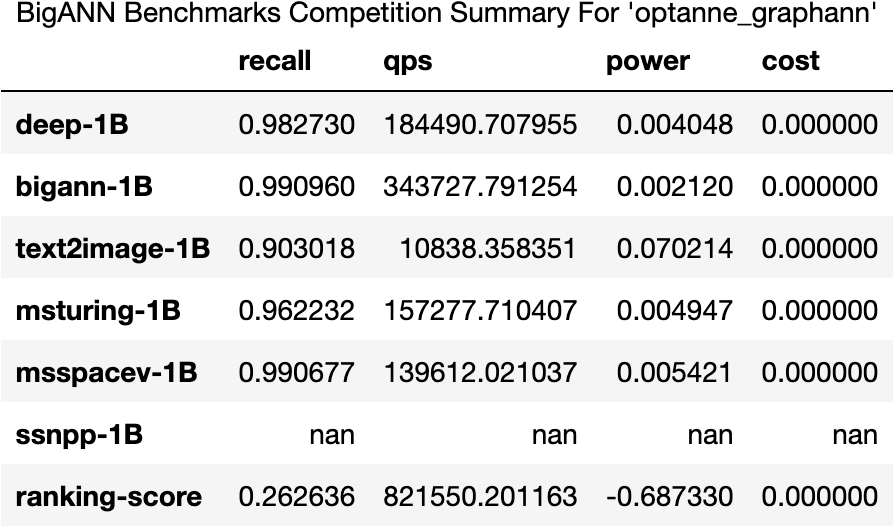
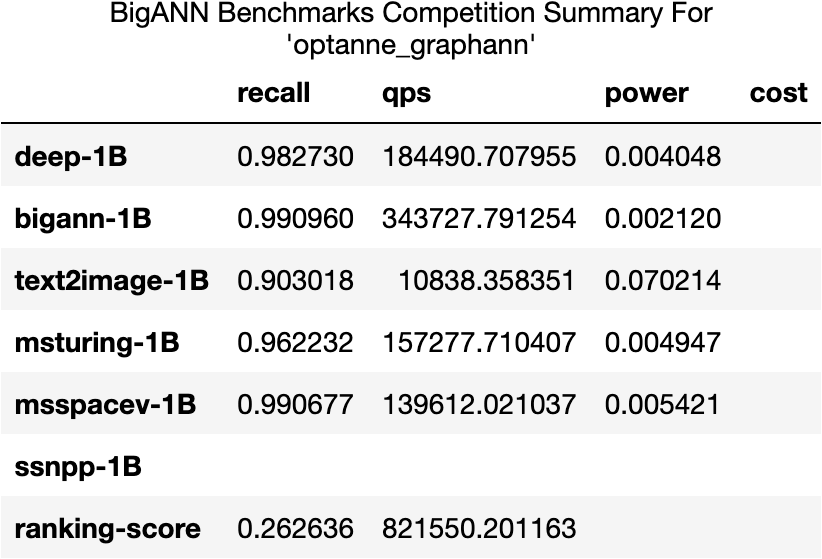
added more df cell diplay nan checks

diff --git a/t3/t3eval.py b/t3/t3eval.py
@@ -88,6 +88,10 @@ class Evaluator():
                             self.evals[dataset]["best_qps"][1],
                             self.evals[dataset]["best_wspq"][2],
                             self.evals[dataset]["cost"] ]
+                        # good change best_wspq and cost were not collected
+                        if cols[2]<=0.0: cols[2] = None
+                        if cols[3]<=0.0: cols[3] = None
+                        
                 summary[dataset] = cols
           
             if not self.is_baseline:
@@ -116,7 +120,10 @@ class Evaluator():
                         diff = summary[dataset][3] - self.baseline["datasets"][dataset]["cost"][0]
                         if self.verbose: print("diff cost",dataset,diff)
                         scores[3] += diff
-                    
+                
+                if scores[2]<=0.0: scores[2] = None
+                if scores[3]<=0.0: scores[3] = None
+         
                 idx = list(summary.keys()) + ["ranking-score"]
                 summary["ranking-score"] = scores
                 if self.verbose: print("summary", summary)
@@ -182,16 +189,22 @@ class Evaluator():
             
         idx = list(self.summary.keys()) 
         df = pd.DataFrame(self.summary.values(),columns=['recall','qps','power','cost'],index=idx)
+        df['cost'] = df['cost'].map( lambda x: '{:,.2f}'.format(x) if x!=None and not np.isnan(x) else np.nan )
+        df = df.replace(np.nan,'')
         if self.verbose: print(df)
         
         title = "BigANN Benchmarks Competition Summary For '%s'" % self.algoname
+
+        print("a")
 
         # try to display a summary table when run in jupyter
         try:
             from IPython.display import display, HTML
             df['cost'] = df['cost'].map( lambda x: '{:,.2f}'.format(x) if not np.isnan(x) else np.nan )
+            #df.fillna(0)
+            #print(df)
             df = df.replace(np.nan,'')
-
+            
             html = df.to_html()
             html = "<b>%s</b><br>" % title + html
             #print(html)
